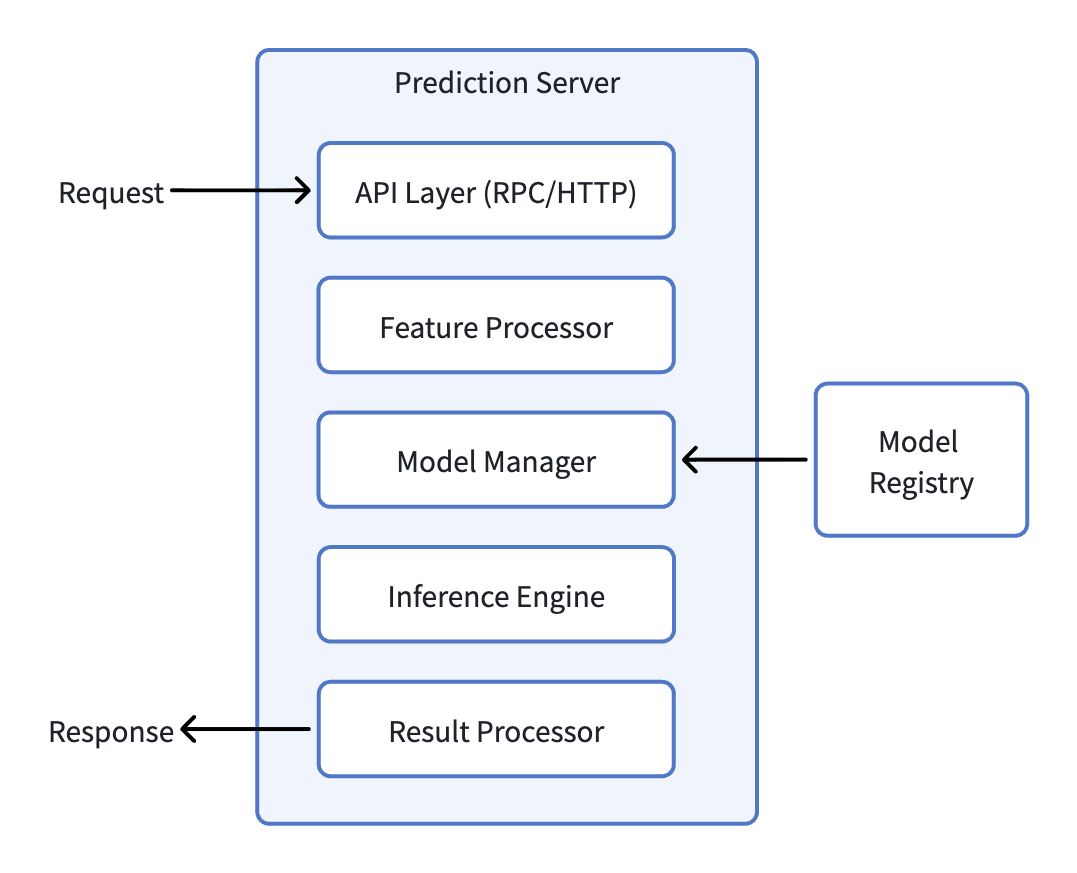
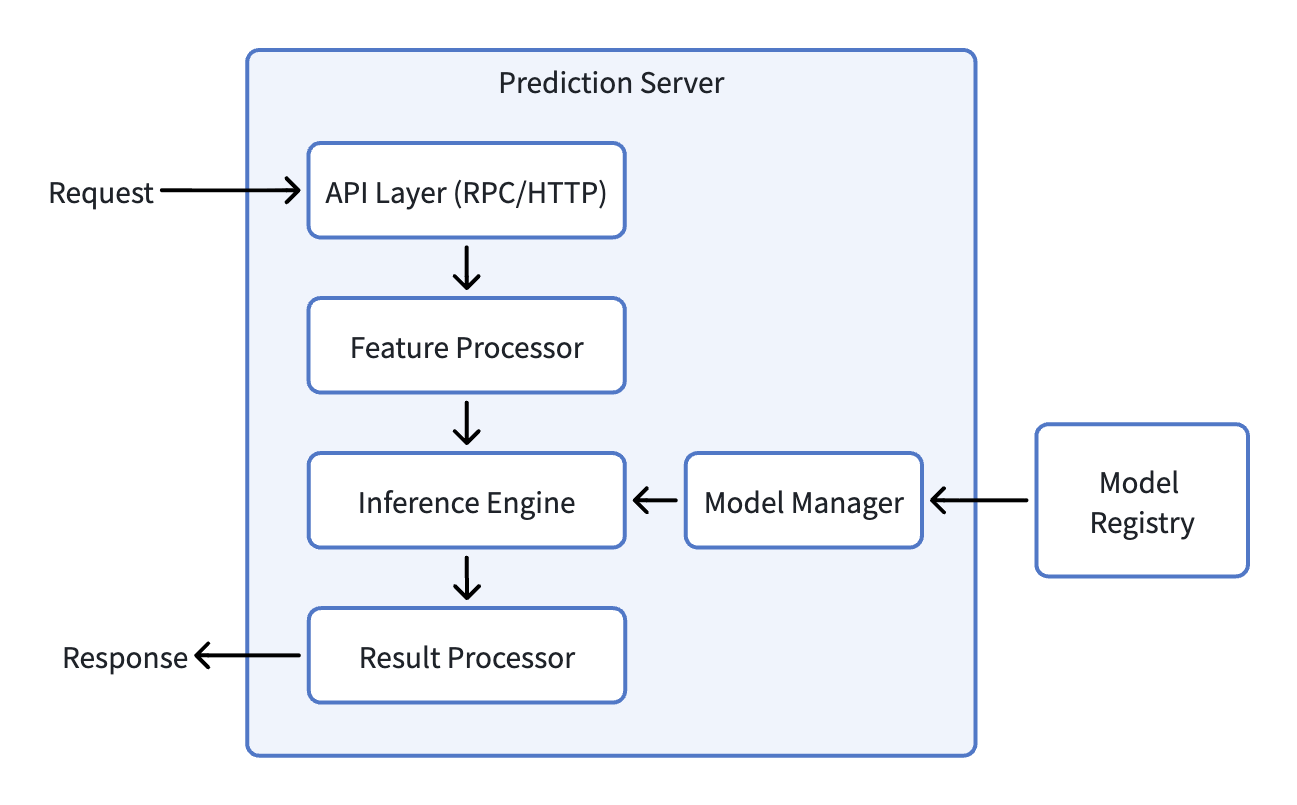
complete article zh/architecture/14-ranking.md

Changed region(s): [[0.0306, 0.0311, 0.9805, 0.9627]]

diff --git a/en/README.md b/en/README.md
@@ -8,7 +8,7 @@ A practical, experience-based series on recommender system architecture and engi
 
 ## Status
 
-English translations are planned; no English articles are available yet. Chinese originals are available for architecture articles 01–13 and two engineering articles. Architecture article 14 is a draft.
+English translations are planned; no English articles are available yet. Chinese originals are available for architecture articles 01–14 and two engineering articles.
 
 The tables below track planned translations of the current Chinese articles. Links in the **Original (中文)** column lead to Chinese content. English titles will link to translations as they become available. Both series are ongoing.
 
@@ -21,22 +21,22 @@ The tables below track planned translations of the current Chinese articles. Lin
 
 ### Architecture Series
 
-| #   | Title                                              | Translation status | Original (中文)                                                     |
-| --- | -------------------------------------------------- | ------------------ | ----------------------------------------------------------------- |
-| 01  | Recommender System Architecture Overview           | Planned            | [推荐系统架构全景](../zh/architecture/01-overview.md)                     |
-| 02  | Engineering Evolution of Recommendation Algorithms | Planned            | [推荐算法的工程演进](../zh/architecture/02-algo.md)                        |
-| 03  | Feature Engineering                                | Planned            | [特征工程](../zh/architecture/03-feature.md)                          |
-| 04  | Offline System Overview                            | Planned            | [离线系统总览](../zh/architecture/04-offline.md)                        |
-| 05  | Content Asset System                               | Planned            | [内容资产体系](../zh/architecture/05-content.md)                        |
-| 06  | User Feedback Loop                                 | Planned            | [用户反馈闭环](../zh/architecture/06-feedback.md)                       |
-| 07  | Feature Pipeline and Feature Store                 | Planned            | [特征 Pipeline 和 Feature Store](../zh/architecture/07-pipeline.md)  |
-| 08  | User Profile System                                | Planned            | [用户画像系统](../zh/architecture/08-userprofile.md)                    |
-| 09  | Model Training Pipeline                            | Planned            | [模型训练流程](../zh/architecture/09-model.md)                          |
-| 10  | Online System Overview                             | Planned            | [在线系统总览](../zh/architecture/10-online.md)                         |
-| 11  | Traffic Splitter                                   | Planned            | [Traffic Splitter](../zh/architecture/11-traffic.md)              |
-| 12  | Real-time Recommendation Engine                    | Planned            | [实时推荐引擎](../zh/architecture/12-engine.md)                         |
-| 13  | Multi-channel Recall                               | Planned            | [多路召回](../zh/architecture/13-recall.md)                           |
-| 14  | Ranking and Prediction Server                      | Planned            | [精排与 Prediction Server](../zh/architecture/14-ranking.md) (draft) |
+| #   | Title                                              | Translation status | Original (中文)                                                    |
+| --- | -------------------------------------------------- | ------------------ | ---------------------------------------------------------------- |
+| 01  | Recommender System Architecture Overview           | Planned            | [推荐系统架构全景](../zh/architecture/01-overview.md)                    |
+| 02  | Engineering Evolution of Recommendation Algorithms | Planned            | [推荐算法的工程演进](../zh/architecture/02-algo.md)                       |
+| 03  | Feature Engineering                                | Planned            | [特征工程](../zh/architecture/03-feature.md)                         |
+| 04  | Offline System Overview                            | Planned            | [离线系统总览](../zh/architecture/04-offline.md)                       |
+| 05  | Content Asset System                               | Planned            | [内容资产体系](../zh/architecture/05-content.md)                       |
+| 06  | User Feedback Loop                                 | Planned            | [用户反馈闭环](../zh/architecture/06-feedback.md)                      |
+| 07  | Feature Pipeline and Feature Store                 | Planned            | [特征 Pipeline 和 Feature Store](../zh/architecture/07-pipeline.md) |
+| 08  | User Profile System                                | Planned            | [用户画像系统](../zh/architecture/08-userprofile.md)                   |
+| 09  | Model Training Pipeline                            | Planned            | [模型训练流程](../zh/architecture/09-model.md)                         |
+| 10  | Online System Overview                             | Planned            | [在线系统总览](../zh/architecture/10-online.md)                        |
+| 11  | Traffic Splitter                                   | Planned            | [Traffic Splitter](../zh/architecture/11-traffic.md)             |
+| 12  | Real-time Recommendation Engine                    | Planned            | [实时推荐引擎](../zh/architecture/12-engine.md)                        |
+| 13  | Multi-channel Recall                               | Planned            | [多路召回](../zh/architecture/13-recall.md)                          |
+| 14  | Ranking and Prediction Server                      | Planned            | [精排与 Prediction Server](../zh/architecture/14-ranking.md)        |
 
 ### Engineering Practice Series
 

diff --git a/zh/README.md b/zh/README.md
@@ -17,7 +17,7 @@
 
 ### 架构篇
 
-持续更新：01–13 篇已完成，第 14 篇为草稿，仍在撰写中。
+持续更新：01–14 篇已完成，更多内容仍在计划中。
 
 | #   | 标题                                                           | 简介                              |
 | --- | ------------------------------------------------------------ | ------------------------------- |
@@ -34,7 +34,7 @@
 | 11  | [Traffic Splitter](./architecture/11-traffic.md)             | 推荐系统的流量治理：分流、镜像与实验              |
 | 12  | [实时推荐引擎](./architecture/12-engine.md)                        | 链路的调度中枢：请求编排、超时控制与降级            |
 | 13  | [多路召回](./architecture/13-recall.md)                          | 多源互补的候选生成体系：从万级到千级              |
-| 14  | [精排与 Prediction Server](./architecture/14-ranking.md) 🚧     | 千级候选的毫秒级打分引擎：模型服务与排序策略（撰写中）     |
+| 14  | [精排与 Prediction Server](./architecture/14-ranking.md)        | 千级候选的毫秒级打分引擎：模型服务与排序策略          |
 
 ### 工程实践篇
 
